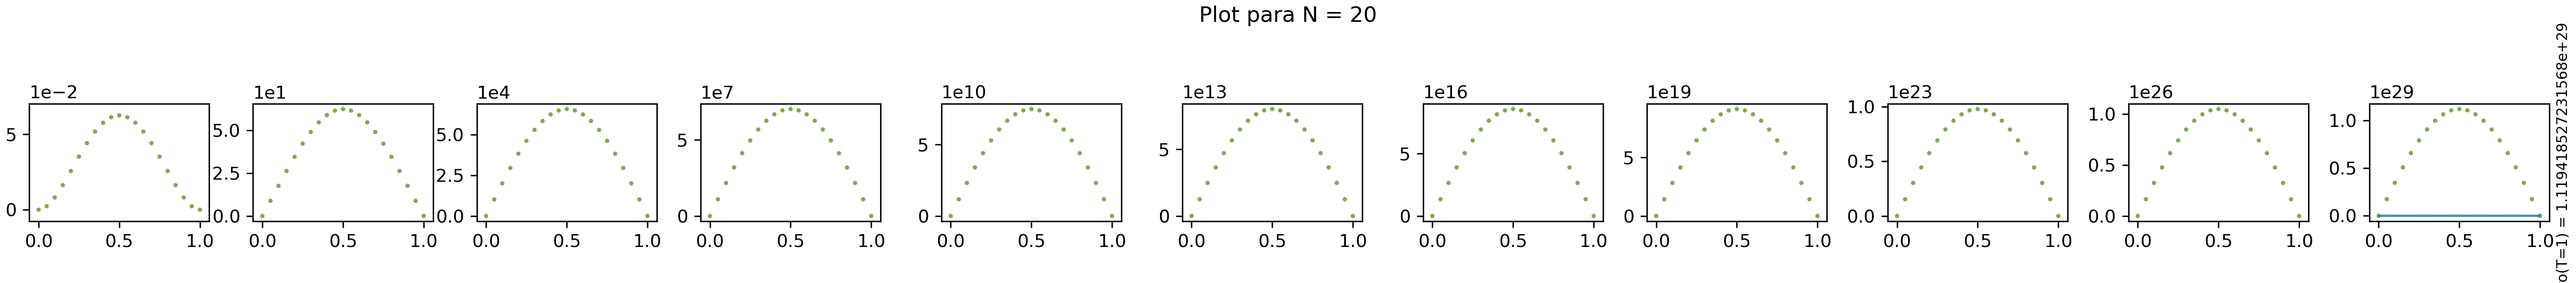
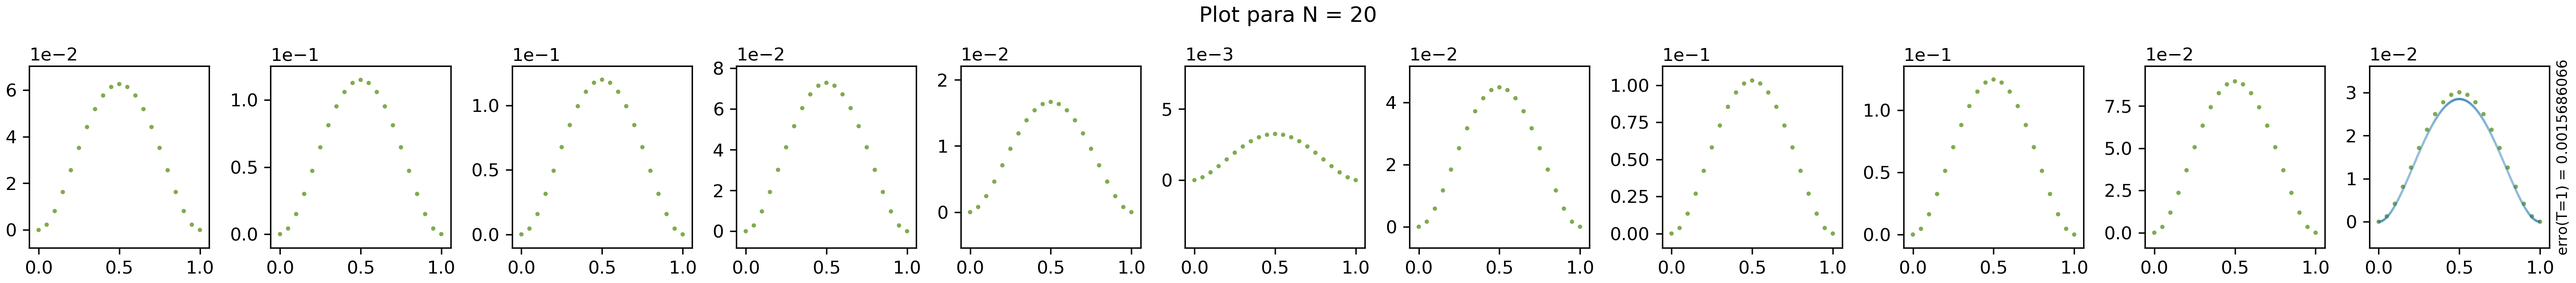
fix second task C + images second task
Second task completed

diff --git a/Segunda_tarefa/item_c.py b/Segunda_tarefa/item_c.py
@@ -69,8 +69,10 @@ def heat_equation(_u0, T, N, _f, _g1, _g2, _u=None):
 
         # create b 
         b = np.array([])
-        for i in range(1, N):
-            b = np.append(b, u_old[i] + (lamb/2)*(u_old[i-1] + 2*u_old[i] + u_old[i+1]) + (dt/2)*(_f(dt*(k+1),dx*i) + _f(dt*k,dx*i)))
+        b = np.append(b, u_old[1] + (lamb/2)*(_g1((k+1)*dt) + u_old[0] - 2*u_old[1] + u_old[2]) + (dt/2)*(_f(dt*(k+1),dx*1) + _f(dt*k,dx*1)))
+        for i in range(2, N-1):
+            b = np.append(b, u_old[i] + (lamb/2)*(u_old[i-1] - 2*u_old[i] + u_old[i+1]) + (dt/2)*(_f(dt*(k+1),dx*i) + _f(dt*k,dx*i)))
+        b = np.append(b, u_old[N-1] + (lamb/2)*(_g2((k+1)*dt) + u_old[N-2] - 2*u_old[N-1] + u_old[N]) + (dt/2)*(_f(dt*(k+1),dx*(N-1)) + _f(dt*k,dx*(N-1))))
 
         # find x
         y = calculate_y(sub_L,b)
@@ -135,7 +137,6 @@ def part_a(N):
     erros.append(erro)
     
     plot(us, "c", "A", _u, erros)
-    print("--- %s seconds ---"%round(time.time() - start_time, 4))
 
 
 def part_b(N):
@@ -172,9 +173,7 @@ def part_b(N):
     
     erros.append(erro)
     
-    print('Erro: \n\n', erros, '\n\n')    
     plot(us, "c", "B", _u, erros)
-    print("--- %s seconds ---"%round(time.time() - start_time, 4))
 
 
 def part_c(N):
@@ -216,6 +215,5 @@ def part_c(N):
 
         
     plot(us, 'c', "C")
-    print("--- %s seconds ---"%round(time.time() - start_time, 4))
 
 main()

diff --git a/Segunda_tarefa/item_b.py b/Segunda_tarefa/item_b.py
@@ -136,7 +136,6 @@ def part_a(N):
     erros.append(erro)
     
     plot(us, "b", "A", _u, erros)
-    print("--- %s seconds ---"%round(time.time() - start_time, 4))
 
 def part_b(N):
     
@@ -172,9 +171,8 @@ def part_b(N):
     
     erros.append(erro)
     
-    print('Erro: \n\n', erros, '\n\n')    
     plot(us, 'b', "B", _u, erros)
-    print("--- %s seconds ---"%round(time.time() - start_time, 4))
+
 
 def part_c(N):
     
@@ -215,6 +213,5 @@ def part_c(N):
 
         
     plot(us, 'b', "C")
-    print("--- %s seconds ---"%round(time.time() - start_time, 4))
 
 main()
